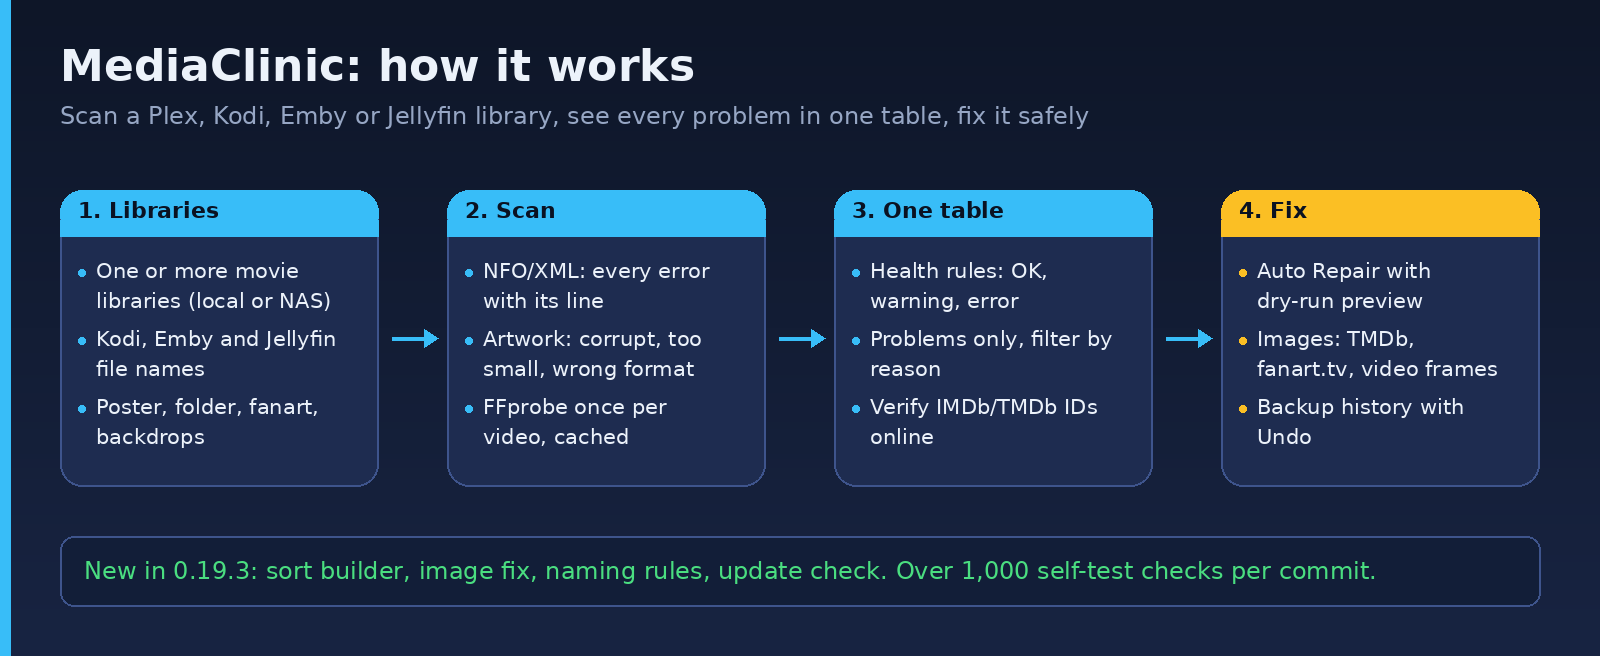
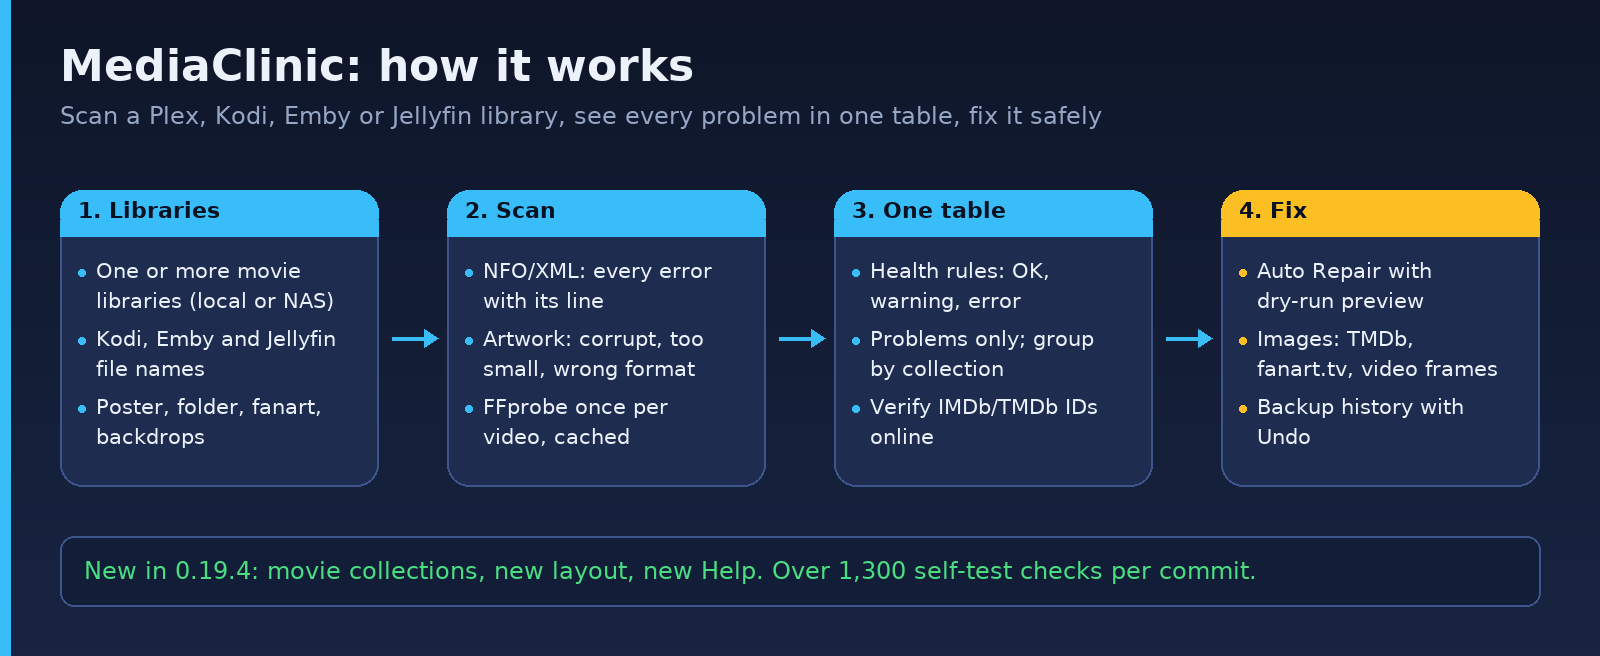
Docs: how-it-works image for v0.19.4, README and contributing corrections, old pages labelled

diff --git a/README.md b/README.md
@@ -24,7 +24,7 @@ MediaClinic expects one subfolder per movie, the layout used by Plex, Kodi, Emby
 |---|---|
 | Artwork | `poster.jpg`, `folder.jpg`, `fanart.jpg` (or the Kodi names `<video>-poster.jpg`, `<video>-fanart.jpg`, `.png`, `.tbn`) present, decodable (corrupt kept apart from too small), right proportions, minimum resolution tier (4K to 360p), minimum file size, file format matching the extension |
 | Backdrops | `backdrop.jpg`, `backdrop1.jpg` and so on, plus Kodi extra fanart (`fanart1.jpg`, `extrafanart/`): count and average size |
-| Metadata | `MovieName.nfo` or `movie.nfo` (Kodi) and `movie.xml` (Emby/Jellyfin) present and well-formed; every error is listed with its line and tag name. DVD and Blu-ray folders (`VIDEO_TS`, `BDMV`) count as one movie. Every name that Kodi, Jellyfin, Emby and Plex read is recognised; folders that are not movies (TV series, collections) get no row and are listed in an "Ignored folders" window |
+| Metadata | `MovieName.nfo` or `movie.nfo` (Kodi) and `movie.xml` (Emby/Jellyfin) present and well-formed; every error is listed with its line and tag name. DVD and Blu-ray folders (`VIDEO_TS`, `BDMV`) count as one movie. Every name that Kodi, Jellyfin, Emby and Plex read is recognised; folders that are not movies (TV series, folders that hold other movie folders) get no row and are listed in an "Ignored folders" window |
 | Identity | IMDB and TMDB IDs across all NFO/XML tags: missing, empty, conflicting, or present in one file only; duplicate movies (same ID, or same title and year, in another folder, also across libraries); optional online check that the IDs point to the right film |
 | Collections | The collection of each movie in the NFO and `movie.xml`: the two files agree, the name matches TMDB, the set folder has its poster and fanart. One name per collection: English, unless more than half of its titles are in another language, or a language you fix in Settings |
 | Ratings, titles, year | Rating and votes (legacy tags and Kodi v17+ `<ratings>` blocks), NFO title against XML local title, missing year |
@@ -40,7 +40,7 @@ Every check is a **health rule** you can switch on or off, or tune, in *Settings
 - **Verify IMDb/TMDb IDs** against TMDb (title in any translation, year ±1) with a sortable report
 - **Movie collections**: a *Group by collection* view with one row per collection, *Check Collections Online* (TMDB), Fix, Set, Rename, Join and Remove from Collection, *Collection Artwork* to choose the set's poster and fanart, and Kodi's movie set information folder; a renamed collection takes its folder and images along, and Undo puts everything back
 - **Panel for the selected movie**: poster, its issues with Fix buttons, files and actions (Ctrl+B hides it)
-- **Auto Repair** for one movie, a selection or the whole library, with a dry-run preview: IDs, ratings, genres, year, titles and XML language; artwork is never touched
+- **Auto Repair** for one movie, a selection or the whole library, with a dry-run preview: IDs, ratings, genres, year, titles, collections and XML language; a movie's own artwork is never touched
 - **Fetch Poster, Fanart and Backdrops** from TMDB or fanart.tv with thumbnails, or pick **frames from the video** with FFmpeg; new files follow the folder's naming style (Kodi or Emby)
 - **Enter ID…**: type an IMDb or TMDb ID by hand, check the film it points to, and write it to NFO and XML
 - **Backup History / Undo**: every backup records what it changed, and a whole run can be restored
@@ -63,7 +63,7 @@ pip install -r requirements.txt     # optional: pillow, openpyxl
 python mediaclinic.py
 ```
 
-Run it from the folder that contains the `settings_*.py` files. FFmpeg and FFprobe are optional but recommended (point *Settings → Tools* to their `bin` folder). Settings, your API keys and the last scan are stored in `%APPDATA%\MediaMetadataClinic\`, outside this repository, and since v0.19.4 so are the backups, so an update keeps Backup History and Undo (backups from an older version next to the program move there once). `logs/` is created next to the program. See [docs/help](docs/help) for the in-app help pages.
+Run it from the folder that contains the `settings_*.py` files. FFmpeg and FFprobe are optional but recommended (point *Settings → Tools* to their `bin` folder). Settings, your API keys and the last scan are stored in `%APPDATA%\MediaMetadataClinic\`, outside this repository, and since v0.19.4 so are the backups, so an update keeps Backup History and Undo (backups from an older version next to the program move there once). `logs/` is created next to the program. The full help is inside the app (F1).
 
 ## Engineering notes
 

diff --git a/docs/CLAUDE_RULES.md b/docs/CLAUDE_RULES.md
@@ -1,6 +1,6 @@
 # CLAUDE_RULES.md
 ## MediaClinic — Rules for AI-assisted Editing of the Settings Subsystem
-### Version: 0.14.0
+### Version: 0.14.0 (last revised then; the app is now at v0.19.4 and has more modules than this file names)
 
 This file is the authoritative guide for any Claude (or human) editing
 `settings_model.py`, `settings_controller.py`, `settings_context.py`, or

diff --git a/CONTRIBUTING.md b/CONTRIBUTING.md
@@ -11,7 +11,7 @@ Thanks for your interest. This is a personal project built with AI assistance (C
 ## Before you start
 
 1. Open an issue first for anything bigger than a small fix, so we agree on the approach.
-2. Python 3.9 or newer, Windows is the tested platform.
+2. Python 3.10 or newer, Windows is the tested platform.
 3. Run the checks locally:
 
 ```

diff --git a/docs/help/README.md b/docs/help/README.md
@@ -1,0 +1,5 @@
+# Old help pages
+
+These text files are the help of **MediaClinic v0.14.0**, kept for history. They are out of date: they do not describe the current window, the collections or most tools added since.
+
+The current help is inside the app (press F1).
